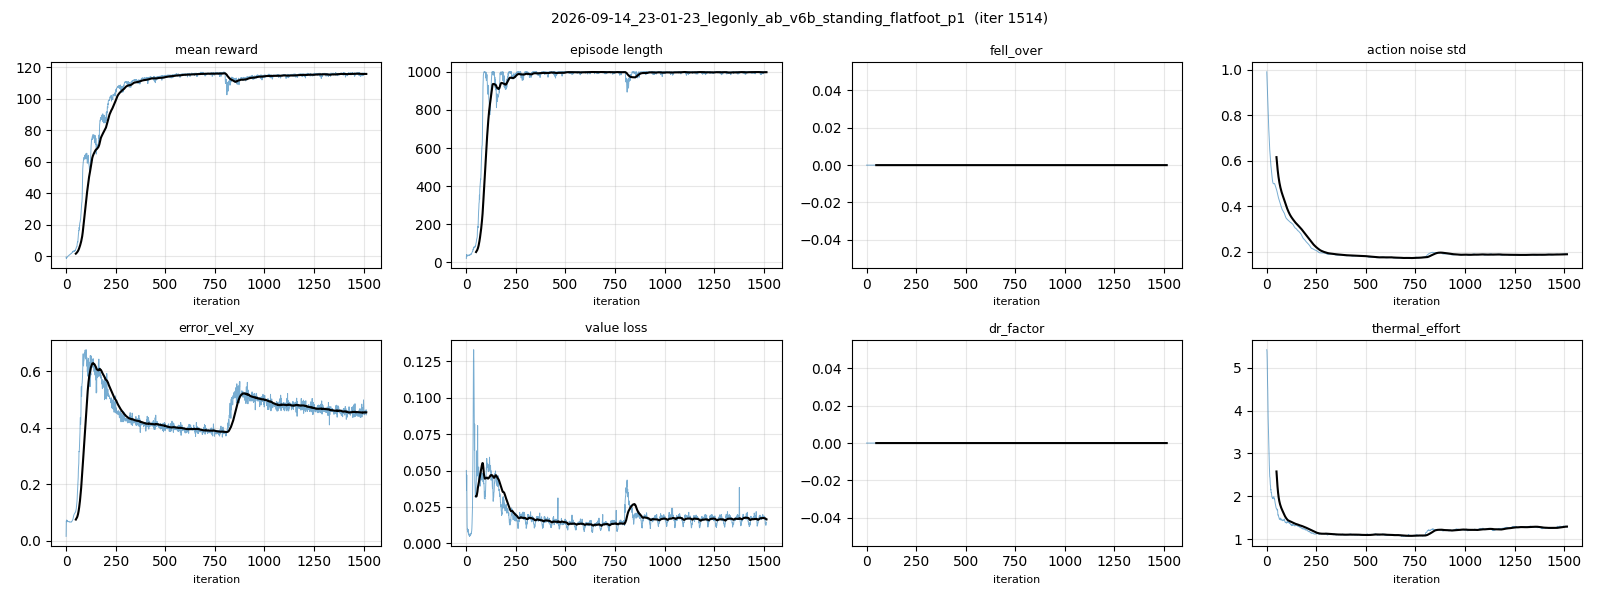
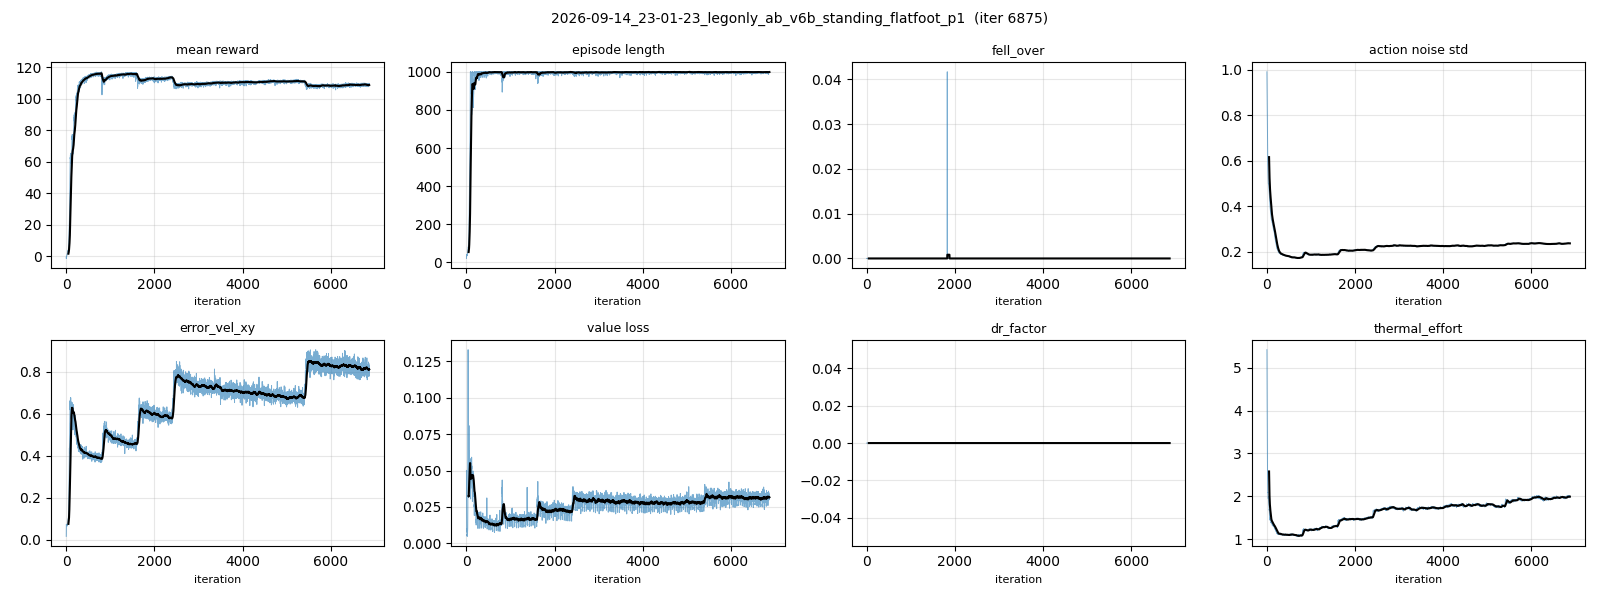
the standing fraction fights the curriculum gate
v6b reached the top curriculum stage at 5400 and has sat there for nearly 2000
iterations; v4 and v5 entered at 3200 and graduated by 4100. Its absolute
tracking error is lower than either (0.2137 against 0.2269 and 0.2249) - what
moved is the baseline, 0.1679 against 0.2131 and 0.2108.

The gate compares error_vel_xy_steady, a mean over all environments, against the
previous stage's settled value. A standing environment commands zero, so a robot
that holds still scores near zero error. Raising the standing fraction from 0.1
to 0.3 pulls the earlier stages down, and the top stage - where the box opens to
2.5 m/s - then has to clear a bar set by an easier one.

So rel_standing_envs interacts structurally with the curriculum gate, which I did
not anticipate when picking the variable. Leaving the run alone: it is training
normally and the top stage has no dwell escape, so phase 1 will reach its 16000
cap as v3_keyfix once did. Completion slips to the afternoon of 09-16. Later runs
raising the standing fraction need --gate-err-ratio raised with it, or standing
environments excluded from the gate metric.

diff --git a/docs/66_experiment_registry.md b/docs/66_experiment_registry.md
@@ -162,7 +162,7 @@
 | **legonly_ab_v2_smoke** [[2026-09-03_legonly_ab_sideaware_smoke]] | `legonly_ab_v1` 중단 원인(v30 좌우 미러축 vs mjlab 단일 정규식 default/clip)을 **설정·코드 레이어에서만** 수정한 뒤의 검증 스모크(1024 env). 리워드 가중치·항 변경 0건. 수정 3건 = per-side default(`signed_pose`, range 장축에서 부호 유도) + 관절별 action clip(`safe_target_clip`) + 폐루프 bent 키프레임 축 재표현(`_reexpress_loop_pose`). DR JSON은 본런과 동일 fastener50 | 프리플라이트 게이트 **수정 전 FAIL 2관절**(L_knee 사용창 0.00°, R_hip_pitch 42.75°<43.50 필요) → **수정 후 12관절 PASS**(L_knee 108.00°, R_hip_pitch 130.50°, L_hip_roll 44.5→99.0°, 좌우 완전대칭). 발목 폐루프 리셋 closure **37.27 mm → 0.001 mm**. P1 settle iter 154, P2 DR 1.000, iter 399 종료, 17분 01초, fell 0.000, 크래시 0. 무릎 창 열림(model_399, 0.6/1.2 m/s): L_knee qtarget 진폭 **0.00°→27.45/32.84°**·사용ROM 0.21→**30.14/37.21°**·스톱 상시토크 21.8→6.4/10.2 N·m, R_knee 진폭 0.00→3.95/5.97°·ROM 9.16/10.02° | ✅ **완주 — 인프라 PASS + 액션창 열림 확인**(보행 성능 판정 대상 아님). 회귀 안전성: v2/v3/v4 모델의 런타임 `default_joint_pos` **Δ 0.0000e+00°**, clip Δ 2.67e−04°(도↔라디안 왕복오차뿐, `--legacy-equivalence` 상시 검사). ⚠잔존(픽스 대상 아님): R_knee 명령이 여전히 93 % 클립 상한 고착 = 근본원인 §1 2순위(swing 무릎 리워드 부재), 별도 트랙. ⚠미해결: `shoulder_roll` 부호 규약 코드 2곳 모순(상체 런 전용, 근본원인 노트 §3c) |
 | **legonly_ab_smoke_test** [[2026-09-03_legonly_ab_smoke_test]] | v2s1 풀스택 레시피 + `PYG_MODEL_TAG=LegOnly_...v30_proxyfix`(1024 env 스모크) + 신규 leg-only 서브셋 질량 DR(`mass_dr_legonly_prototype-tempmass.json`, round4 corrected-body DR에서 torso/shoulder/arm 항목 제외 — 그 바디들이 LegOnly엔 물리적으로 없어 원본 DR JSON을 그대로 쓰면 P2에서 바디명 해석 실패 예상) | P1 top-stage settle iter 154(fell 0.000)→종료 200. P2 checkpoint full-resume, DR 0→1.0 램프(iter 200→324), iter 399 종료. Critic 82D 확인, 크래시 0건 | ✅ **완주 — 인프라 PASS**(보행 성능 판정 대상 아님). 예측했던 바디명 landmine(§변인) 실제 회피 성공 확인. 본학습은 `mass_dr_legonly_fastener50_prototype-tempmass.json`(나사50%+body귀속 합본)로 진행 |
 | **legonly_ab_v5_heading** [[2026-09-13_legonly_ab_v5_heading]] | v4와 **유일 변인 = `PYG_REL_HEADING` 0.3 → 0.8**(설정 숫자 하나). 방향을 실제로 붙잡는 환경 비율 — 나머지는 회전 **속도**만 주어져 방향이 자유롭게 적분된다. 로봇·모터값·세기·보상·커리큘럼·무작위화·시드 전부 동일. 질문: 방향 되먹임을 주면 몸통 비틀기와 방향 표류가 줄어드는가 | **2026-09-13 03:02:08 발사, 진행 중** — 발사 전 검사 통과(좌우 이름 L_ y=+0.1237 = 왼쪽, 리셋 폐루프 **0.0000 mm**; 뒤 두 검사는 이번에 새로 넣은 것). **단일 변인 실증**: v4 `params/env.yaml`과 대조해 좌우 이름 교체를 되돌리면 `rel_heading_envs: 0.3 → 0.8` 한 줄만 남는다(다른 한 줄은 정규식 순서, 의미 동일). ★**변인 근거 셋**: ① 비틀기/걸음 0.94·방향 표류 71.2° ② v4 회전 추종 24~104 %(전진 80~118 %), 복합 오차 0.257 rad/s ③ 비틀기를 벌할 두 항이 점수의 0.8 %뿐. ★**모터 탓 아님 확인**(연구노트 §3e): v3을 자기 시절 가벼운 모터에 태워도 비율 0.89·표류 67.8°로 v4와 같음 → 모델 구조 성질. 방향은 세대마다 뒤집힘(v4 왼쪽 +50.8 %, v3 오른쪽 −52.4 %), 크기만 체계적. 발사 직후 반복 103·낙상 0·오차 1.090→0.832. 판정 기준: 비틀기/걸음 비율 0.88 → **0.5 이하**, 15초 방향 표류 12~150° → **30° 이하**, 엉덩이회전 좌우차 +51.7 % → 20 % 이하, 걷는 시간 비율·속도·넘어짐 0·보상은 v4 수준 유지. **런 리포트**: 1단계 [[2026-09-13_03-02-08_legonly_ab_v5_heading_p1]] · 2단계 완주본 [[2026-09-13_08-07-54_legonly_ab_v5_heading_p2]] | **✅ 학습 완주 (2026-09-14 기준)** — 1단계 4,100회(커리큘럼 4/4 도달, 체류 905, 낙상 0, 보상 99.72, 한 판 987.4/1000), 2단계 **18,099회 완주**(무작위화 1.0 끝까지, 낙상 0.0000, 보상 115.12, 한 판 992.7/1000). ★변인 신호: **방향(회전) 오차 0.8328 → 0.5410 (−35 %)**, 회전 추종 보상 +1.0727 → +1.5535 (+45 %, 이 정책 최대 항), 행동 변화율 벌점 −0.371 → −0.193(절반), 몸통 각속도 벌점 −0.0135 → −0.0052. ⏳ **판정 미완**: 비틀기/걸음 비율·방향 표류·부하 숫자는 `measure_full.py` 정식 측정을 아직 안 돌려 비어 있음 — 그 표가 채워지기 전까지 설계 숫자는 v4 것을 쓴다 ★**판정 완료(2026-09-14 저녁)**: 시작 자세 흔들림 6회 × 15초 × 1.2 m/s — 엉덩이회전 좌우차 **+50.8 %→+7.5 %**(목표 20 % 이하 ✅ **6.8배 개선, 조사를 시작하게 만든 증상 해결**), 비틀기/걸음 0.94→**0.72**(목표 0.5 ⚠ 미달), 15초 방향 표류 71.2°→**87.6°**(목표 30° ❌ 악화), 걷는 시간 97.2→93.4 %, 속도 1.21 m/s, 낙상 0. ※표류는 측정이 **열린 회로**(회전 명령 0 고정)라 v5에 불리 — v5는 80 %를 방향 되먹임 아래 배웠다. ★★**명령 0 거동(사용자 지적)**: **이미 서 있으면 20초 변화 폭 2 mm로 정지**(형제 세션 [[2026-09-14_v5_stand_zero_command]]), 그러나 **흐트러진 자세에서 출발하면 복구하느라 제자리걸음** — 발 뗀 시간 v4 36 % → **v5 81 %** 로 악화(부작용). 두 조건 공통으로 **정지 시 엉덩이회전이 액션 한계 ±40.5°에 41~43 % 포화**(걸을 땐 3~6 %뿐) → 실물에서 발끝이 바깥 향한 채 굳는다. 원인: 명령 0에서 `stand_still_penalty`는 꺼지고 `air_time`도 꺼져 발을 떼는 이득도 벌도 없다. ★★**정정 + 세대 비교(2026-09-14, 사용자 질문 "mjcf 변경 전에는 잘 서있었나?")**: 앞서 "두 정책 다 제자리에 안 선다"고 한 것은 **시작 자세를 흔든 조건**이라 과거 기록과 비교 불가였다. 흔들림 없이(2026-09-03 v2 점검과 같은 조건) 다시 재니 — **v4는 발을 한 번도 떼지 않는다**(높이 흔들림 2.16 mm, 이동 2 cm, 방향 3.5°, 발 뗀 시간 **0.00초**). v3는 2.50초, **v5는 7.28초**. 흔들어 재도 같은 결론(v3 4.41 / v4 4.28 / **v5 9.69초**). **즉 정지가 망가진 시점은 v5이고, 그 변인은 `PYG_REL_HEADING` 0.3→0.8 하나뿐이다** — 방향을 자주 맞추도록 배우며 서 있어야 할 때도 발을 디디는 버릇이 붙었다. **로봇 모델 이름 바꾸기는 원인이 아니다**(전수 대조 불일치 0건, 발 위치 차 0.00e+00, v5 학습 환경 폐루프 0.0000 mm). **비틀린 정지 자세 자체는 이름 바꾸기 9일 전부터 존재**(2026-09-03 v2 model_700: hip_yaw −20.02/−26.14°, 당시에도 토크 0.5~1.2 N·m로 "공짜"라 기록). 자세 비틀림과 제자리 못 섬은 **별개 문제** — v4는 왼쪽 hip_yaw가 액션 한계(+41.29°)에 붙은 채로도 발을 안 뗀다. ★★★**정지 자세 추종 항이 죽어 있다**(2026-09-14 사용자 질문 *"무슨 자세로 줬지? 자세가 이상해"*, 노트 §13-1 + `docs/img/v5_standing_pose_vs_target.png`): `pose` 항(가중치 +1.0)의 목표는 **`default_joint_pos` = 리셋 웅크림 = 액션 0 자세**이고 **별도의 정지용 자세는 없다**. 허용 오차가 걷기·빨리 규모는 관절별로 맞춰져 있는데(무릎 68.8°, 엉덩이회전 8.6°) **정지 규모만 `.*: 0.05` 한 줄 = 전 관절 2.86°**. 명령 0의 실제 자세는 허용의 **2~5.6배** 벗어나 `exp(−8.7)=1.7e−04` — **가중치 1.0 항이 0을 내고 양수 합의 16 %를 버린다**. 그 근처 기울기도 1.7e−04라 **학습 신호가 없어** 정책이 항을 무시한다(명령 0 구간은 학습의 10 %뿐이라 손해도 작다). `walking_threshold`도 코드 기본 0.5에서 **0.05**로 내려와 있어 이 규모는 명령이 정확히 0일 때만 걸린다. → 발끝 벌어짐(엉덩이회전 ±12~15°)·발목 비틀림(오른 크랭크 B 16°)·다리 꼬임(엉덩이앞뒤 양쪽 6° 부족). **목표 자세는 멀쩡하고 허용 오차가 잘못됐다.** 차기 변인 후보: ① 정지 규모를 관절별로(보상 파라미터 → 연구노트 선행 필요) ② `rel_standing_envs` 0.1→0.3 또는 `walking_threshold` 0.05→0.5(과제 분포만 바꿈, 즉시 가능). |
-| **legonly_ab_v6b_standing_flatfoot** [[2026-09-14_legonly_ab_v6b_standing_flatfoot]] | v5와 **유일 변인 = `PYG_REL_STANDING` 0.1 → 0.3**(설정 숫자 하나, `PYG_REL_HEADING=0.8` 포함 나머지 전부 동일). 명령 0 구간을 3배 학습시킨다. 노림수는 죽은 자세 추종 항을 직접 살리는 게 아니라, 그 구간에서 **기울기가 살아 있는 속도 추종 항들(0.95 근처)에 표본을 더 주어** 흘러감·제자리걸음을 줄이는 것. ★**`walking_threshold` 0.05→0.5는 실측으로 기각** — 느린 구간(전체 5.0 %)에 정지 규모를 적용하면 그 구간 자세 추종 보상이 **0.7045 → 0.0034**로, 죽은 구간을 넓힐 뿐. ★**목표 자세는 멀쩡함 확인**: 정적 안정성 여유 +100.3 mm로 정책이 실제로 쓰는 자세(+99.4 mm)와 같다 — 어쩔 수 없이 벌린 게 아니다. ★보상 파라미터(정지 규모 관절별 재조정)는 연구노트 선행 규칙 때문에 보류, 과제 분포 변경을 먼저 시험 | ★**첫 발사(19:37) 반복 2,434회에서 중단·폐기** — 폐기 리포트 [[ABORTED_2026-09-14_19-37-39_legonly_ab_v6_standing_p1]] — 사용자가 렌더를 보고 *"target pose 부터가 이상한데? 발이 들려있는거 아닌가?"* 지적한 것이 **맞았다**. 리셋/목표 웅크림의 **발목 값이 깊은 웅크림 것**이었다: 기하상 발바닥이 수평이려면 발목 = 무릎−엉덩이 인데 얕은 웅크림(이 런들이 쓰는 것)은 0.175 rad 이 맞고 해결기에 깊은 웅크림 값 **0.36 이 상수로 박혀** 있었다. → 발바닥 기울기 **+10.600° → 0.000°**, 앞뒤 단차 47.8 → **0.1 mm**, 접지 귀퉁이 4/24 → **24/24**, 접지 지지면 앞뒤 폭 **0 mm(선 위) → 260 mm**, 무게중심 여유 앞 +95.8 / 뒤 +164.2 mm, 폐루프 0.00000 mm 유지. `loop_bent_keyframe.py` 가 이제 `--hip/--knee` 에서 유도한다(`--ankle-pitch` 로 덮어쓰기). **v2~v6 전 세대가 발끝 든 자세를 액션 0 기준으로 학습**했으므로 기존 정책과 호환되지 않는다. ★**이 런은 v5 대비 변인이 둘**(정지 환경 비율 + 발바닥 수정) — 발바닥은 후속 공통 기반이라 되돌리지 않는다. | **2026-09-14 23:01:23 재발사, 진행 중** — 발사 전 검사 통과(좌우 이름 왼쪽 +0.1237, 폐루프 0.0000 mm), 리셋 발목 실측 10.027°/10.036°. 단일 변인 실증: v5 설정과 `rel_standing_envs: 0.1 → 0.3` **한 줄만** 다름. 판정 기준(주 판정은 정지): 정지 자세 추종 보상 1.7e−04 → **0.05 이상**, 명령 0의 엉덩이회전 벌어짐 왼 +14.9°/오른 −11.8° → **양쪽 5° 이내**, 액션 한계 포화 41.0/18.7 % → **10 % 이하**, 발 뗀 시간 81 % → **40 % 이하**. 보행은 지키기만(엉덩이회전 좌우차 20 % 이내, 걷는 시간·속도·낙상 0·보상 −5 % 이내) | 🔄 진행 중 |
+| **legonly_ab_v6b_standing_flatfoot** [[2026-09-14_legonly_ab_v6b_standing_flatfoot]] | v5와 **유일 변인 = `PYG_REL_STANDING` 0.1 → 0.3**(설정 숫자 하나, `PYG_REL_HEADING=0.8` 포함 나머지 전부 동일). 명령 0 구간을 3배 학습시킨다. 노림수는 죽은 자세 추종 항을 직접 살리는 게 아니라, 그 구간에서 **기울기가 살아 있는 속도 추종 항들(0.95 근처)에 표본을 더 주어** 흘러감·제자리걸음을 줄이는 것. ★**`walking_threshold` 0.05→0.5는 실측으로 기각** — 느린 구간(전체 5.0 %)에 정지 규모를 적용하면 그 구간 자세 추종 보상이 **0.7045 → 0.0034**로, 죽은 구간을 넓힐 뿐. ★**목표 자세는 멀쩡함 확인**: 정적 안정성 여유 +100.3 mm로 정책이 실제로 쓰는 자세(+99.4 mm)와 같다 — 어쩔 수 없이 벌린 게 아니다. ★보상 파라미터(정지 규모 관절별 재조정)는 연구노트 선행 규칙 때문에 보류, 과제 분포 변경을 먼저 시험 | ★**첫 발사(19:37) 반복 2,434회에서 중단·폐기** — 폐기 리포트 [[ABORTED_2026-09-14_19-37-39_legonly_ab_v6_standing_p1]] — 사용자가 렌더를 보고 *"target pose 부터가 이상한데? 발이 들려있는거 아닌가?"* 지적한 것이 **맞았다**. 리셋/목표 웅크림의 **발목 값이 깊은 웅크림 것**이었다: 기하상 발바닥이 수평이려면 발목 = 무릎−엉덩이 인데 얕은 웅크림(이 런들이 쓰는 것)은 0.175 rad 이 맞고 해결기에 깊은 웅크림 값 **0.36 이 상수로 박혀** 있었다. → 발바닥 기울기 **+10.600° → 0.000°**, 앞뒤 단차 47.8 → **0.1 mm**, 접지 귀퉁이 4/24 → **24/24**, 접지 지지면 앞뒤 폭 **0 mm(선 위) → 260 mm**, 무게중심 여유 앞 +95.8 / 뒤 +164.2 mm, 폐루프 0.00000 mm 유지. `loop_bent_keyframe.py` 가 이제 `--hip/--knee` 에서 유도한다(`--ankle-pitch` 로 덮어쓰기). **v2~v6 전 세대가 발끝 든 자세를 액션 0 기준으로 학습**했으므로 기존 정책과 호환되지 않는다. ★**이 런은 v5 대비 변인이 둘**(정지 환경 비율 + 발바닥 수정) — 발바닥은 후속 공통 기반이라 되돌리지 않는다. | **2026-09-14 23:01:23 재발사, 진행 중** — 발사 전 검사 통과(좌우 이름 왼쪽 +0.1237, 폐루프 0.0000 mm), 리셋 발목 실측 10.027°/10.036°. ★**진행 중 관찰(09-15 08:40)**: 1단계 최상단계에 5,400회 도달했으나 2,000회 가까이 졸업 못 함(v4·v5 는 3,200 진입 → 4,100 졸업). **절대 오차는 오히려 낮다**(0.2137 대 0.2269/0.2249) — 문제는 **기준선**(0.1679 대 0.2131/0.2108)이다. 게이트가 쓰는 `error_vel_xy_steady` 는 전 환경 평균이고 **서 있는 환경은 가만히 있으면 오차 0**이라, 정지 비율 0.1→0.3 이 앞 단계 오차를 끌어내려 문턱이 과하게 좁아졌다. **`PYG_REL_STANDING` 은 커리큘럼 게이트와 구조적으로 상호작용한다**. 조치: 그대로 두고 1단계 16,000 상한까지 진행(v3 전례). 완주 예상 09-16 오후. 후속 런은 `--gate-err-ratio` 동반 상향 또는 게이트 지표에서 정지 환경 제외 필요. 단일 변인 실증: v5 설정과 `rel_standing_envs: 0.1 → 0.3` **한 줄만** 다름. 판정 기준(주 판정은 정지): 정지 자세 추종 보상 1.7e−04 → **0.05 이상**, 명령 0의 엉덩이회전 벌어짐 왼 +14.9°/오른 −11.8° → **양쪽 5° 이내**, 액션 한계 포화 41.0/18.7 % → **10 % 이하**, 발 뗀 시간 81 % → **40 % 이하**. 보행은 지키기만(엉덩이회전 좌우차 20 % 이내, 걷는 시간·속도·낙상 0·보상 −5 % 이내) | 🔄 진행 중 |
 | **legonly_ab_v7_heading_revert** [[2026-09-15_legonly_ab_v7_heading_revert]] | v6와 **유일 변인 = `PYG_REL_HEADING` 0.8 → 0.3**(기본값 복귀). 사용자 지시(2026-09-14) *"V5 변인이 문제라 가정해서 REL_HEADING을 0.3으로 되돌리는 실험 해"*. **2×2 완성**: 방향 0.3/정지 0.1 = v4(잘 섬) · 방향 0.8/정지 0.1 = v5(못 섬) · 방향 0.8/정지 0.3 = v6 · **방향 0.3/정지 0.3 = v7**. 가설 근거: 같은 조건(명령 0, 흔들림 없음)에서 발 뗀 시간 v4 **0.00초** / v5 **7.28초**이고 v5의 변인은 방향 유지 비율 하나뿐이다 | **1단계(약 4,100회)까지 약 6시간 예산**(사용자 허용). 정지 판정에 무작위화가 필요 없으므로 1단계 저장본으로 v4·v5·v6과 같은 반복 수에서 비교. 판정: 발 뗀 시간 **1초 이하**(v4 0.00 / v5 7.28), 높이 흔들림 5 mm 이하, 이동 0.05 m 이하, 방향 10° 이하 | ⏳ v6 완료 후 발사 |
 | **v4_18099_stand_q** [[2026-09-14_v4_standing_q_torque_gains]] | **측정 — 런 아님**. 사용자 요청: *"정지에 문제없는 Policy 에서 최신 mjcf 기준 각 조인트의 가만히 서있을 수 있는 q 타겟, 그때의 토크, Kp/Kd 를 표로. 여러번 Rollout 해서 평균/표준편차. 좌우 네이밍 바뀐거 고려."* v4 완주본 `model_18099`, 명령 (0,0,0) 15초 × 8회, 안정 구간 t≥5s, 좌우 최신 규약(`L_`=+y=왼쪽) | ★**정지 자세가 하나가 아니다** — 굴림 안 흔들림 ±0.12~3.37°인데 굴림 **사이** 표준편차 17.94°. **자세 A(3/4)**: 왼 엉덩이회전 목표 **+39.87±2.50°**(액션 한계 ±40.5°에 붙음), 엉덩이좌우 실효 토크 **17.53 N·m**(정격 44 %)·최대 46.48. **자세 B(1/4)**: 왼 엉덩이회전 **−1.56±2.59°**, 엉덩이좌우 실효 **3.11 N·m**(8 %)·최대 4.73 — **토크 5~10배 적다**. 좋은 정지 자세가 존재·도달 가능한데 4번 중 1번만 찾아간다. 정격 초과 없음(최대가 자세 A 엉덩이좌우 44 %). 발목 크랭크는 두 자세 모두 추종 오차 −5~−13°(Kp 22.27로 낮고 폐루프와 균형). ★★**방법론 정정**: 같은 저장본·같은 명령·흔들림 없이 두 번 굴렸더니 첫 스텝부터 몸통 높이 4.9 mm·관절 0.41° 차이, 발 뗀 시간 **0.00초 대 4.58초**. 리셋마다 엔코더 편향·몸통 무게중심이 재추첨되므로 **시드 미지정 굴림은 비교 불가**. 이에 따라 v4/v5 세대별 정지 비교(발 뗌 0.00 대 7.28초), 1단계 비교, 2단계 추적 표를 **전부 철회**하고 시드 지정 반복(완주본 8회·1단계 6회)으로 재측정 중 ★**재측정 완료 + 세대별 렌더**(사용자 *"표로 보면 감이 안 와"*, `docs/img/standing_pose_by_generation.png`): 시드 지정 8회로 다시 재니 **결론 유지** — 발 뗀 시간(10초 중) v4 **1.24 ± 1.81 s**[0.00~4.72] 대 v5 **8.42 ± 1.32 s**[5.32~9.48], **범위 안 겹침 = 구분됨**. 단 "v4는 발을 안 뗀다"는 과장이었고 평균 1.24초·최대 4.72초다. 1단계끼리는 0.82±1.10 대 2.92±2.54로 **겹쳐 구분 안 됨** → 차이는 2단계에서 자란다. ★★**자세와 가만히 있음은 별개 축이다**(렌더로 드러남): 엉덩이회전 목표 0° 대비 v3 +37/−37°(양발 대칭 벌어짐)·v4 +40/+14°(한 발 앞뒤 어긋, 왼쪽이 한계에 붙어 몸 비틀림)·**v5 +1/−0°(자세가 목표에 가장 가깝다)**. 그런데 발 뗀 시간은 v3 4.3 / v4 **1.2** / v5 **8.4초**. 즉 `PYG_REL_HEADING` 0.8은 **정지 자세를 개선하면서 정지 안정성을 망쳤다** — 앞서 "v5의 정지가 나빠졌다"고 한 것은 절반만 맞았다. v7 설계 함의: 단순히 0.3으로 되돌리면 안정성은 돌아와도 자세가 다시 비틀릴 수 있다. ★**2단계 어느 시점부터 갈리는지 추적**(시드 6개씩, 발 뗀 시간 10초 중): 1단계 끝 4,100회 v4 0.82±1.10 대 v5 2.92±2.54 **겹침** · 6,100회 0.99±1.31 대 3.70±3.05 **겹침** · 8,100회 1.08±1.41 대 3.60±3.27 **겹침** · 11,100회 0.97±1.31 대 3.67±4.03 **겹침** · **완주 18,099회 1.24±1.81 대 8.42±1.32 구분됨**. v5 평균은 2단계 내내 높지만 퍼짐이 커서 마지막 굳히기 구간(무작위화 100 % 고정)에서 ±4.03→±1.32로 좁혀져야 갈린다. → **v7(방향 유지 되돌리기)은 완주해야 판정 가능**, 6시간(1단계까지)으로는 불가. ★**비틀림은 리셋 때 없다가 자란다**: v4 비틀기 0초 +1.63° → 3초 +10.50° → 8초 +16.28° → 15초 **+19.49°**, 되돌리는 힘이 없어 한 방향으로 쌓이는 걷기 중 방향 표류와 같은 구조. v5는 내내 +1° 근처로 **비틀리지 않는 대신 발을 뗀다**. | ✅ 측정 완료 · ⏳ 세대 비교 재측정 중 |
 | **legonly_ab_v6b_standing_flatfoot** [[2026-09-14_legonly_ab_v6b_standing_flatfoot]] | v5와 **유일 변인 = `PYG_REL_STANDING` 0.1 → 0.3**(명령 0 구간을 3배 학습). 근거: 정지 자세 추종 항이 **죽어 있음** — 정지 규모 허용오차만 `.*: 0.05`(전 관절 2.86°) 한 줄이라 실제 자세가 허용의 2~5.6배를 벗어나 항이 `exp(−8.7)=1.7e−04`, 가중치 1.0짜리가 0을 내고 **기울기도 1.7e−04**라 정책이 통째로 무시. 노림수는 기울기가 살아 있는 속도 추종 항들에 표본을 더 주는 것 | ⛔ **중단** (반복 2,434) — [[ABORTED_2026-09-14_19-37-39_legonly_ab_v6_standing_p1]]. ★**목표 자세부터 틀렸음**: 얕은 웅크림인데 발목에 깊은 웅크림 값(0.36 rad)이 박혀 있어 발바닥이 +10.6° 기울고 **접지 귀퉁이 4/24 · 지지면 앞뒤 폭 0 mm**(선 위에 섬). 사용자가 렌더를 보고 잡음. 다만 **변인 자체는 효과 있었음** — 자세 추종 항이 v5 의 1.7e−04 에서 **0.53** 으로 되살아남(중단 시 보상 94.0 · 낙상 0 · 한 판 967.6/1000). 발목 키프레임을 고쳐 [[2026-09-14_legonly_ab_v6b_standing_flatfoot]] 로 재발사 |

diff --git a/docs/000.Real-time Brefing.md b/docs/000.Real-time Brefing.md
@@ -1,16 +1,16 @@
 # 실시간 브리핑 — Pygmalion 보행 로봇
 
-*마지막 갱신 2026-09-15 01:28 (KST). 이 페이지는 자동 생성됩니다 — 손으로 고치지 말고 `tools/briefing/briefing.py`로 바꾸세요.*
+*마지막 갱신 2026-09-15 08:43 (KST). 이 페이지는 자동 생성됩니다 — 손으로 고치지 말고 `tools/briefing/briefing.py`로 바꾸세요.*
 
 > **이 프로젝트가 뭘 하는 건가**: 두 발 로봇을 시뮬레이션 안에서 걷도록 학습시키고, 걸을 때 관절과 뼈대에 걸리는 **힘을 측정해서 실제 하드웨어를 어떤 크기로 만들지 정하는 것**이 목표입니다. 로봇을 실제로 만들기 전에, 모터가 얼마나 세야 하는지·부품이 얼마나 튼튼해야 하는지를 숫자로 알아내려는 겁니다.
 
 ## 지금 하고 있는 일
 
-**발바닥 고친 자세로 학습 재시작, 반복 1,814회**
+**배포 계약 검증 도구 완성, v6b 는 1단계 상한까지 갈 전망**
 
-리셋 자세의 발이 들려 있던 것을 고치고 23:01에 다시 발사했다. 현재 반복 1,814회, 커리큘럼 2단계, 넘어짐 0으로 정상. 이 학습은 이전 대비 변인이 둘이다(정지 환경 비율 + 발바닥 수정) — 발바닥은 이후 모든 학습의 공통 기반이라 되돌리지 않는다.
+학습은 반복 7,300회, 넘어짐 0으로 정상이고 추종 오차는 이전 세대보다 오히려 낮다. 다만 승급 문턱이 과하게 좁아져 1단계가 상한까지 갈 전망이라 완주가 09-16 오후로 밀린다. 원인은 정지 환경 비율을 올린 것이 승급 판정 지표를 끌어내린 구조적 상호작용이다.
 
-*시작 2026-09-15 01:28*
+*시작 2026-09-15 08:43*
 
 ## 다음에 할 일
 
